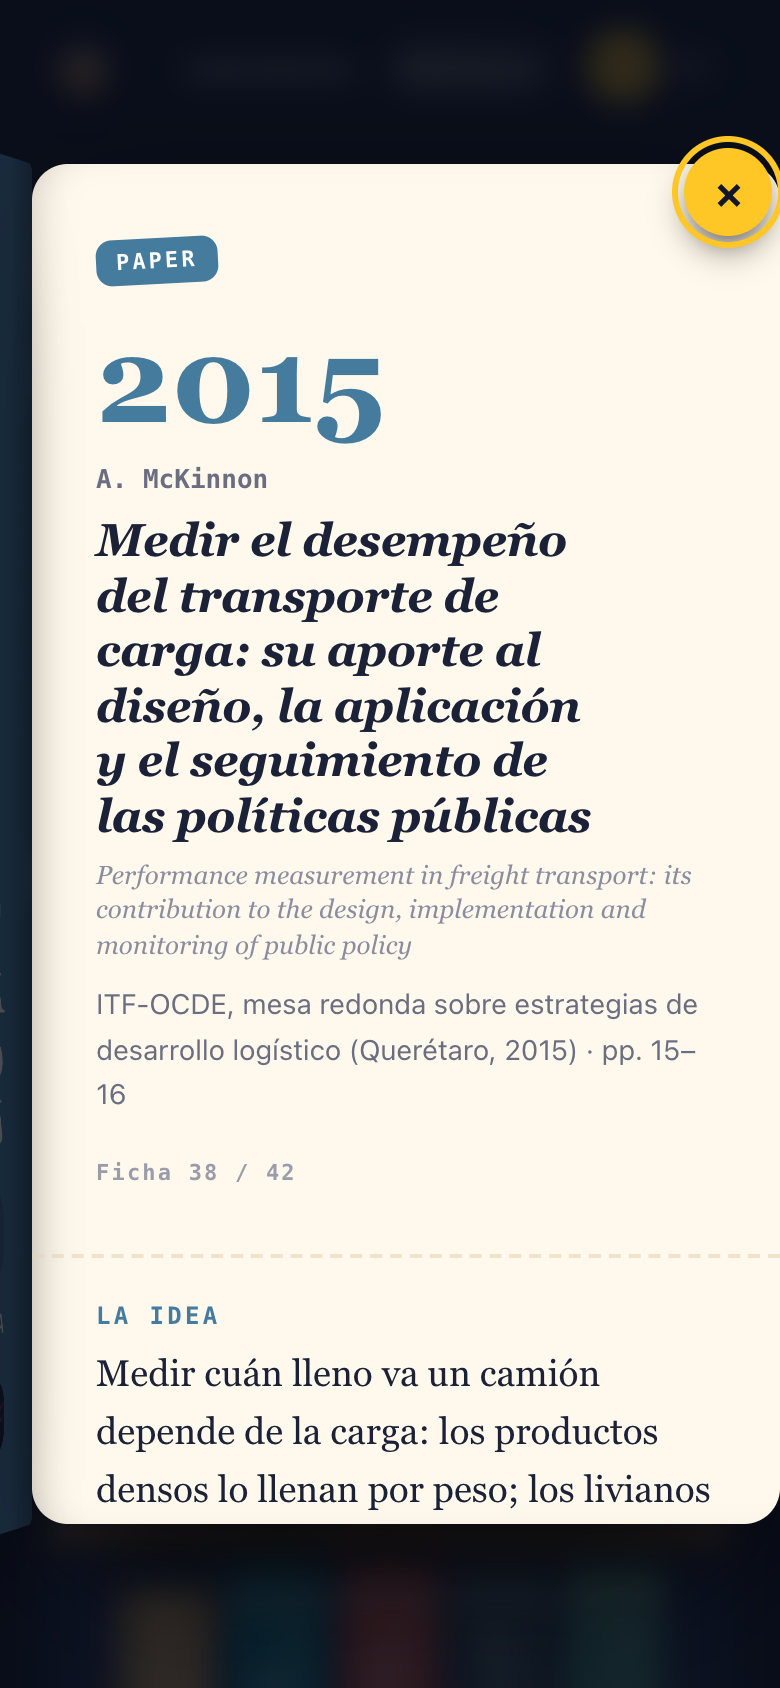
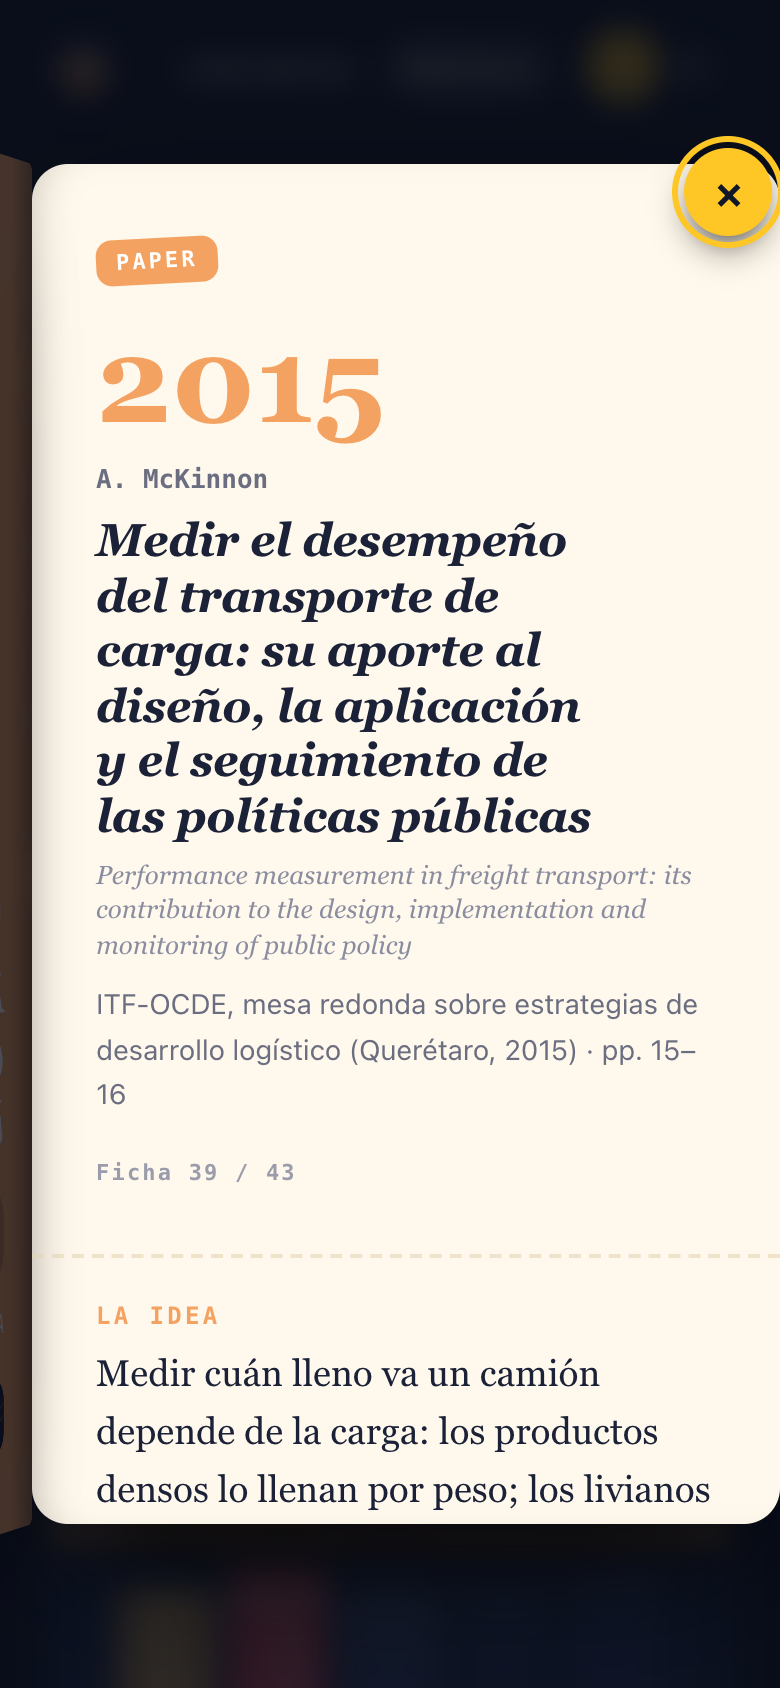
Publicar laboratorio reel 17 · pagas por el aire (APUB=true)
- APUB=true: aparece primero en la lista de reels (#17), ?reel=17 abre #aire y la biblioteca sube a 43 fuentes de catorce reels (41 con el locker + McKinnon y la guía de tarifas).
- Pruebas con la bandera encendida: aire 34/34 (nueva: aparece en la lista; con APUB=false no), verify 155/155, cadena 9/9, bodegas 12/12, vecino 14/14, quedatelo 14/14, ordenar 14/14, co2 19/19, locker 36/36 (su conteo en inglés ahora contempla aire publicada). Armado = index.html.

diff --git a/tests/aire.js b/tests/aire.js
@@ -84,6 +84,8 @@ const PORT=8801,U=`http://127.0.0.1:${PORT}/index.html`;
  await p.screenshot({path:"capturas/aire_en_fin.png"});await p.evaluate(()=>document.getElementById("lang-es").click());
  // reel 17 y biblioteca con APUB=true
  await p.goto(`${U}?reel=17`);await p.waitForTimeout(2000);ok("?reel=17 abre #aire",await p.evaluate(()=>location.hash)==="#aire");
+ await p.evaluate(()=>ECAPP.openSheet("aire","reels"));await p.waitForTimeout(700);const lst=await p.evaluate(()=>[...document.querySelectorAll("#sheet-body .mrow")].map(e=>e.textContent.replace(/\s+/g," ").trim()));
+ ok("Con APUB=true aparece en la lista de reels, primero: «#17 ¿Por qué un paquete de 2 kilos se cobra como 12?»",/^#17 ?¿Por qué un paquete de 2 kilos se cobra como 12\?/.test(lst[0]||""),lst.slice(0,3));await p.screenshot({path:"capturas/aire_lista_reels.png"});await p.evaluate(()=>ECAPP.closeSheet());await p.waitForTimeout(400);
  await p.evaluate(()=>{location.hash="biblioteca"});await p.waitForTimeout(900);const t=await p.textContent("#libintro");
  const LKp=await p.evaluate(()=>!!ECAPP.dev.PUBLICADO.locker);ok(LKp?"Biblioteca con APUB=true: 43 fuentes de catorce reels (con el locker)":"Biblioteca con APUB=true: 42 fuentes de trece reels",(LKp?/Cuarenta y tres fuentes de catorce reels/:/Cuarenta y dos fuentes de trece reels/).test(t),t.slice(0,50));
  ok("Biblioteca: McKinnon (pp. 15–16) y la guía de tarifas, sin empresas chilenas en la ficha",await p.evaluate(()=>{const S=ECAPP.SOURCES.filter(s=>s.labs.includes("aire"));const tx=JSON.stringify(S)+JSON.stringify(ECAPP.LAB.aire.notApply);return S.length===2&&/pp\. 15–16/.test(tx)&&/Expedited/.test(tx)&&!/Chilexpress|Starken|Correos de Chile|Blue Express|BlueExpress|Mercado Libre/i.test(tx)}));
@@ -96,6 +98,7 @@ const PORT=8801,U=`http://127.0.0.1:${PORT}/index.html`;
  // ---- con APUB=false (como queda la rama): no se lista, no suma fuentes, ?reel=17 no abre
  const q=await mk(false);const e2=[];q.p.on("pageerror",e=>e2.push(e.message));await q.p.goto(`${U}?reel=17`);await q.p.waitForTimeout(2000);
  ok("Con APUB=false: ?reel=17 no abre el laboratorio",await q.p.evaluate(()=>location.hash!=="#aire"),await q.p.evaluate(()=>location.hash));
+ await q.p.evaluate(()=>ECAPP.openSheet("co2","reels"));await q.p.waitForTimeout(700);ok("Con APUB=false: no aparece en la lista de reels",!(await q.p.evaluate(()=>[...document.querySelectorAll("#sheet-body .mrow")].some(e=>/#17|2 kilos/.test(e.textContent)))));await q.p.evaluate(()=>ECAPP.closeSheet());await q.p.waitForTimeout(400);
  await q.p.evaluate(()=>{location.hash="biblioteca"});await q.p.waitForTimeout(900);const t2=await q.p.textContent("#libintro");
  const LKq=await q.p.evaluate(()=>!!ECAPP.dev.PUBLICADO.locker);ok(LKq?"Con APUB=false: la biblioteca queda en 41 fuentes de trece reels (con el locker), sin McKinnon ni la guía":"Con APUB=false: la biblioteca sigue en 40 fuentes de doce reels, sin McKinnon ni la guía",(LKq?/Cuarenta y una fuentes de trece reels/:/Cuarenta fuentes de doce reels/).test(t2)&&!(await q.p.evaluate(()=>!!document.querySelector('#v-biblioteca [data-id="mckinnon2015"],#v-biblioteca [data-id="ups_sg2024"]')))&&!/Camiones que se llenan por volumen/.test(await q.p.textContent("#v-biblioteca")),t2.slice(0,45));
  ok("Con APUB=false: sin errores de página",e2.length===0,e2.slice(0,3));

diff --git a/tests/locker.js b/tests/locker.js
@@ -82,7 +82,7 @@ const U="http://127.0.0.1:8798/index.html";const SRCJS=require("fs").readFileSyn
  const apL=await p.evaluate(()=>!!ECAPP.dev.PUBLICADO.aire);ok(apL?"Biblioteca: 43 fuentes de catorce reels (ES, aire publicada)":"Biblioteca: 41 fuentes de trece reels (ES)",apL?/Cuarenta y tres fuentes de catorce reels/.test(t):/Cuarenta y una fuentes de trece reels/.test(t),t.slice(0,48));
  ok("Biblioteca: ficha de Hovi y Bø con el DOI, y PostNord solo como nota dentro de ella",await p.evaluate(()=>{const tx=document.body.textContent;return tx.includes("Hovi y Bø")&&tx.includes("Unlocking the potential")})&&/id:"hovi2024"[^\n]*url:"https:\/\/doi\.org\/10\.1016\/j\.sftr\.2024\.100189"/.test(SRCJS)&&/id:"hovi2024"[^\n]*labs:\["locker"\]/.test(SRCJS)&&/citada por el estudio/.test(SRCJS)&&(SRCJS.match(/PostNord/g)||[]).length>=1&&!/id:"postnord/.test(SRCJS));
  await p.evaluate(()=>document.getElementById("lang-en").click());await p.waitForTimeout(400);const te=await p.textContent("#libintro");
- ok("Library: forty-one sources from thirteen reels (EN)",/Forty-one sources from thirteen reels/.test(te),te.slice(0,48));
+ ok(apL?"Library: forty-three sources from fourteen reels (EN, aire published)":"Library: forty-one sources from thirteen reels (EN)",(apL?/Forty-three sources from fourteen reels/:/Forty-one sources from thirteen reels/).test(te),te.slice(0,48));
  await p.evaluate(()=>document.getElementById("lang-es").click());
  ok("Sin errores de página (390 px)",errs.length===0,errs.slice(0,3));
  /* 6 · escritorio 1280 px */

diff --git a/index.html b/index.html
@@ -1879,7 +1879,7 @@ const XPUB=true;
 /* reel 14 · locker (furgón contra furgón): flip to true on the day it goes out */
 const LPUB=true;
 /* reel 17 · pagas por el aire (peso volumétrico): flip to true on the day it goes out */
-const APUB=false;
+const APUB=true;
 const REELNUM={ups:1,amazon:2,ikea:3,bailey:4,nivel:5,fila:6,quedatelo:7,cadena:8,bodegas:9,vecino:10,ordenar:12,co2:13,locker:14,aire:17};
 /* reels published so far: labs with a higher number stay reachable by direct link but are not listed */
 const PUBLICADO={ups:true,amazon:true,ikea:true,bailey:true,nivel:true,fila:true,quedatelo:QPUB,cadena:CPUB,bodegas:BPUB,vecino:VPUB,ordenar:OPUB,co2:XPUB,locker:LPUB,aire:APUB};

diff --git a/src/game.js b/src/game.js
@@ -18,7 +18,7 @@ const XPUB=true;
 /* reel 14 · locker (furgón contra furgón): flip to true on the day it goes out */
 const LPUB=true;
 /* reel 17 · pagas por el aire (peso volumétrico): flip to true on the day it goes out */
-const APUB=false;
+const APUB=true;
 const REELNUM={ups:1,amazon:2,ikea:3,bailey:4,nivel:5,fila:6,quedatelo:7,cadena:8,bodegas:9,vecino:10,ordenar:12,co2:13,locker:14,aire:17};
 /* reels published so far: labs with a higher number stay reachable by direct link but are not listed */
 const PUBLICADO={ups:true,amazon:true,ikea:true,bailey:true,nivel:true,fila:true,quedatelo:QPUB,cadena:CPUB,bodegas:BPUB,vecino:VPUB,ordenar:OPUB,co2:XPUB,locker:LPUB,aire:APUB};
